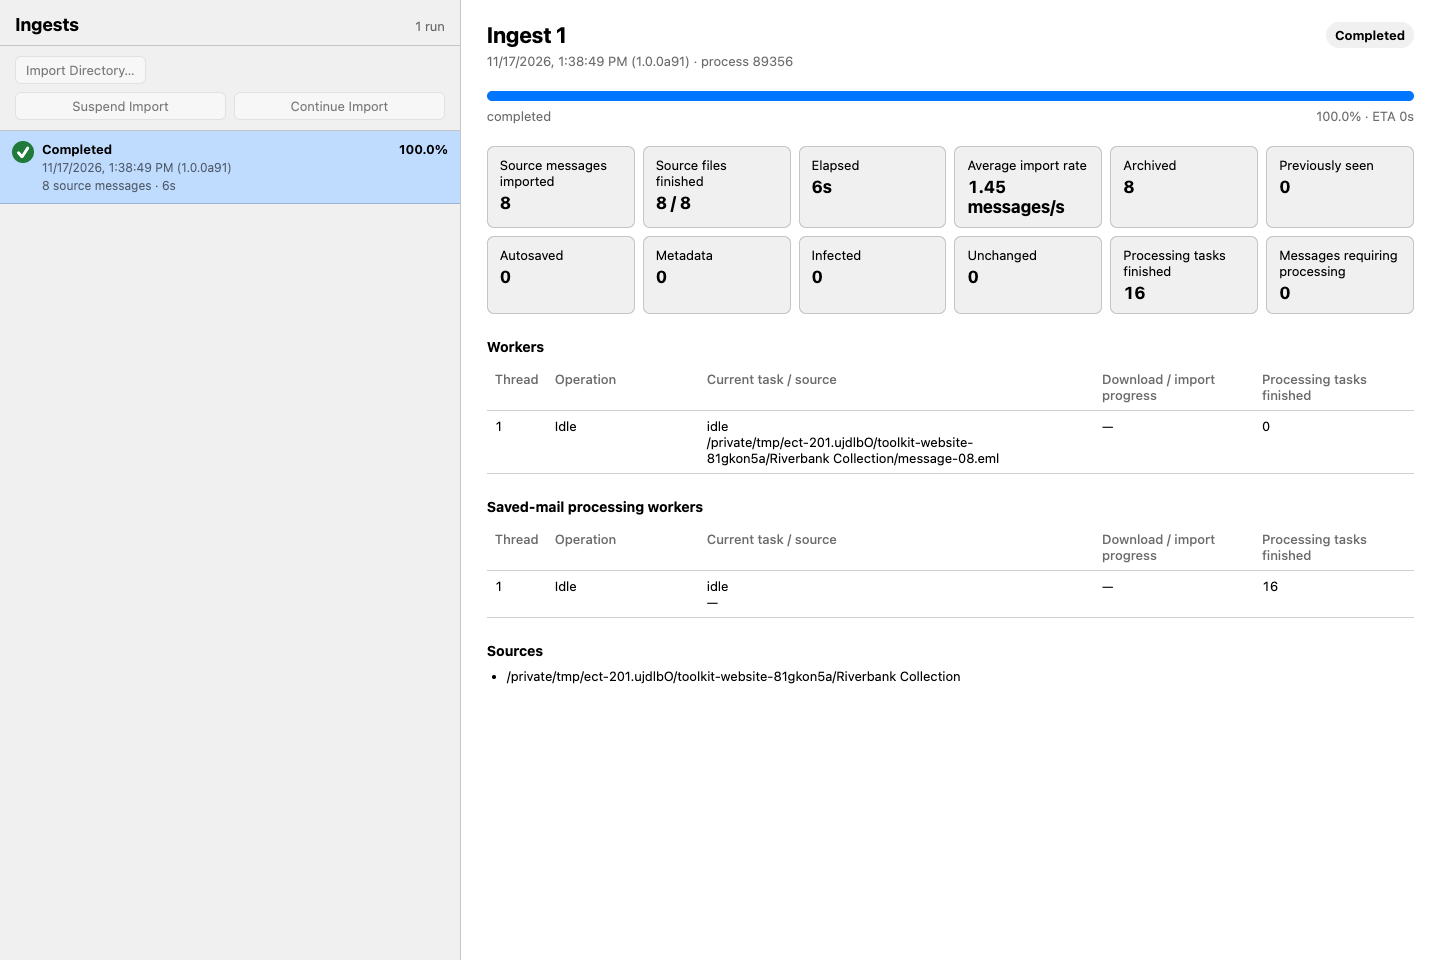
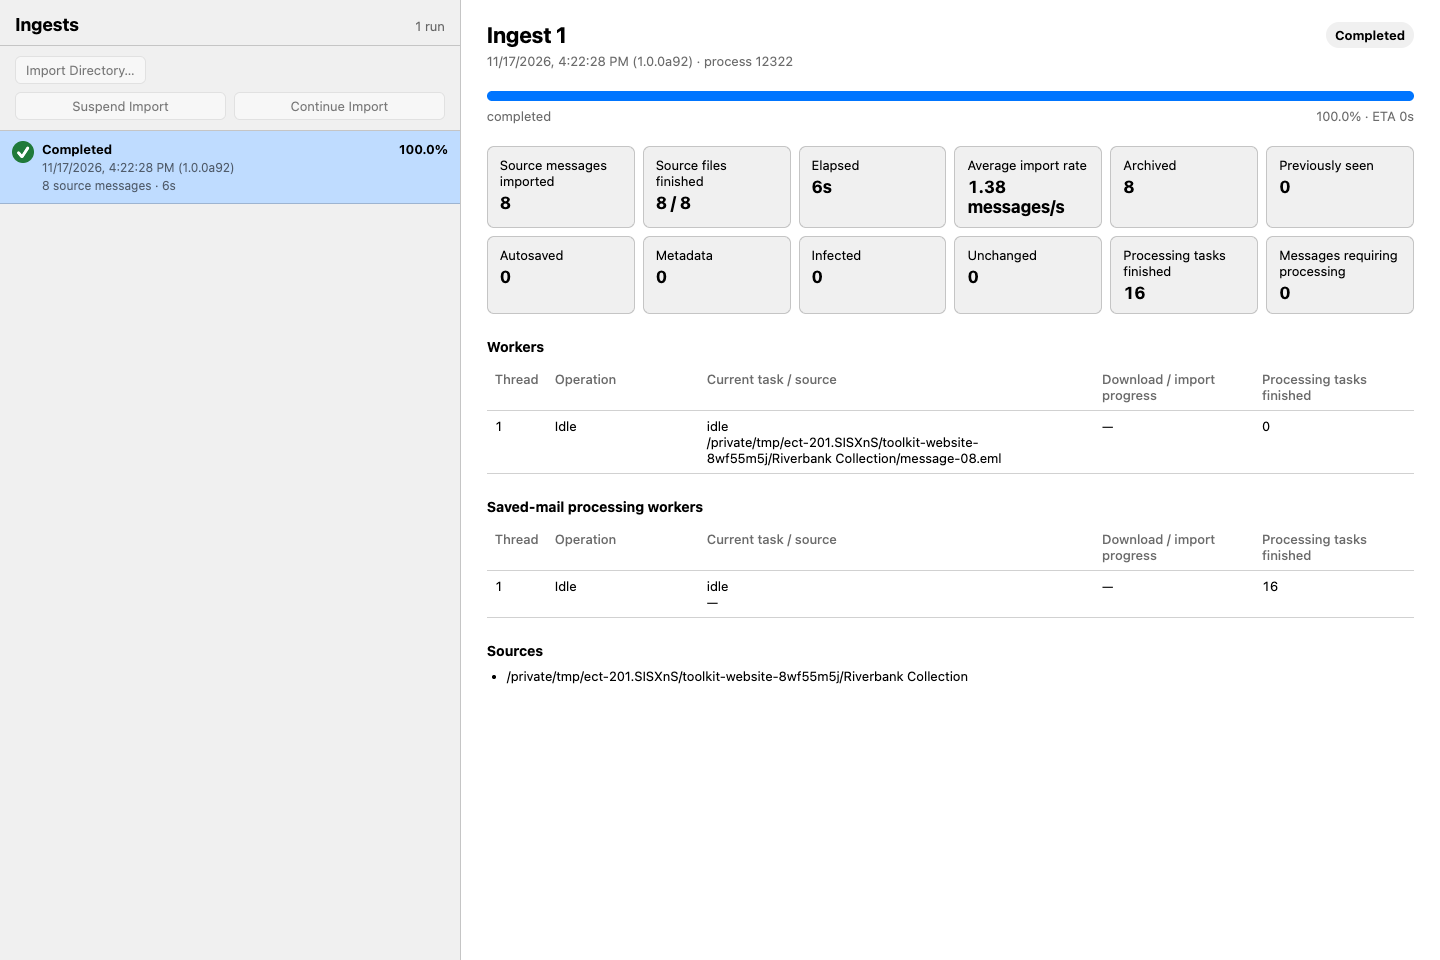
Keep desktop IMAP imports waiting for network connectivity
Retest unavailable DNS and IMAP transports every 150 seconds until
connectivity returns or the user cancels. Preserve the active run and UID
plan across captive portal sign-in. Keep the standalone CLI pause policy.

Exercise DNS loss during discovery and acquisition, timed retry and
cancellation, and the visible waiting-to-completed browser path. Advance
the prerelease version and refresh its locks and Importing screenshot.

diff --git a/tests/test_imap.py b/tests/test_imap.py
@@ -33,6 +33,7 @@ from threading import Barrier, Event
 import pytest
 
 from mailarchiver.file_events import wait_for_path_state
+from mailarchiver.change_signal import ChangeEvent
 from mailarchiver.__main__ import IngestRequest, run_ingest
 from mailarchiver.application import create_empty_archive
 from mailarchiver.archive_config import load_archive_config, save_archive_config
@@ -899,10 +900,11 @@ def test_host_down_handling_requires_a_transport_errno(error: OSError) -> None:
     assert not connection_interrupted(error)
 
 
-def test_only_temporary_dns_failure_retries() -> None:
-    """ACQUISITION: a resolver that is still restoring service is a transport interruption."""
-    assert connection_interrupted(socket.gaierror(socket.EAI_AGAIN, "Temporary failure"))
-    assert not connection_interrupted(socket.gaierror(socket.EAI_NONAME, "Unknown server"))
+@pytest.mark.parametrize("code", [socket.EAI_AGAIN, socket.EAI_NONAME, socket.EAI_FAIL])
+def test_dns_unavailability_retries(code: int) -> None:
+    """ACQUISITION: captive portals can return either temporary failure or an unknown hostname."""
+    assert connection_interrupted(socket.gaierror(code, "Name lookup unavailable"))
+    assert not connection_interrupted(socket.gaierror(socket.EAI_BADFLAGS, "Invalid resolver flags"))
 
 
 def test_imaplib_wrapped_send_timeout_retains_timeout_presentation() -> None:
@@ -1488,7 +1490,7 @@ def test_desktop_transport_signal_recovers_without_replaying_bodies(imap_archive
             transport.network_changed(False)
             imap_inbox.fault = ImapFault(command=b"BODY.PEEK[]", mode="disconnect", once=True)
             retry = next(stream)
-            assert isinstance(retry, ProgressEvent) and "reconnecting in 30s" in retry.phase
+            assert isinstance(retry, ProgressEvent) and "retrying in 150s" in retry.phase
             transport.network_changed(True)
         cursors = [first.cursor, *(item.cursor for item in stream if isinstance(item, MailObject))]
         assert time.monotonic() - started < 10
@@ -1497,6 +1499,87 @@ def test_desktop_transport_signal_recovers_without_replaying_bodies(imap_archive
     assert len(requests) == (3 if power_cycle else 4)
     assert requests.count(requests[0]) == 1
     assert sum(b" EXAMINE " in line for line in imap_inbox.commands) >= 3
+
+
+@pytest.mark.parametrize("imap_server", ["interruptible"], indirect=True)
+@pytest.mark.parametrize("acquiring", [False, True], ids=["discovery", "acquisition"])
+def test_desktop_waits_through_captive_portal_dns_failure(imap_archive: Path, imap_inbox: DisposableImap,
+        monkeypatch: pytest.MonkeyPatch, acquiring: bool) -> None:
+    """ACQUISITION: four unknown-host replies retain a live import and exact delivered UID state."""
+    assert isinstance(imap_inbox, InterruptibleImap) and imap_inbox.account is not None
+    with closing(sqlite3.connect(imap_archive / "archive.sqlite3")) as database, database:
+        initialize_state(database)
+    transport = ImapTransport()
+    plugin = ImapSourcePlugin(PluginContext(imap_transport=transport))
+    source = SourceSpec(locator=imap_locator(imap_archive, imap_inbox.account, 1))
+    discovery = plugin.discover(source)
+    stream = discovery
+    cursors: list[str | None] = []
+    if acquiring:
+        containers = [item for item in discovery if isinstance(item, MailContainer)]
+        stream = plugin.messages(containers[0], None)
+        cursors.append(next(item.cursor for item in stream if isinstance(item, MailObject)))
+        imap_inbox.fault = ImapFault(command=b"BODY.PEEK[]", mode="disconnect", once=True)
+        interrupted = next(stream)
+        assert isinstance(interrupted, ProgressEvent) and "Waiting for IMAP connectivity" in interrupted.phase
+        transport.network_changed(True)
+
+    # Replace only the OS resolver boundary to reproduce the screenshot's DNS
+    # error. All successful sessions use the real fixture's verified TLS server.
+    resolve = socket.getaddrinfo
+    attempts = 0
+
+    def unavailable(*args, **kwargs):
+        nonlocal attempts
+        attempts += 1
+        raise socket.gaierror(socket.EAI_NONAME, "nodename nor servname provided, or not known")
+
+    monkeypatch.setattr(socket, "getaddrinfo", unavailable)
+    with closing(stream):
+        for _ in range(4):
+            waiting = next(stream)
+            assert isinstance(waiting, ProgressEvent)
+            assert "Waiting for IMAP connectivity; retrying in 150s" in waiting.phase
+            assert "sign-in" in waiting.phase
+            transport.network_changed(True)
+        monkeypatch.setattr(socket, "getaddrinfo", resolve)
+        remaining = list(stream)
+    assert attempts == 4
+    if acquiring:
+        cursors.extend(item.cursor for item in remaining if isinstance(item, MailObject))
+        assert len(cursors) == len(set(cursors)) == 3
+        requests = [line.split()[3] for line in imap_inbox.commands if b"BODY.PEEK[]" in line]
+        assert requests.count(requests[0]) == 1
+    else:
+        assert sum(isinstance(item, MailContainer) for item in remaining) == 1
+
+
+@pytest.mark.parametrize("finish", ["deadline", "suspend"])
+def test_desktop_connectivity_wait_retests_or_cancels(monkeypatch: pytest.MonkeyPatch, finish: str) -> None:
+    """ACQUISITION: automatic retests survive failed attempts and cancellation wakes the 150-second wait."""
+    from mailarchiver.imap_source import IMAP_NETWORK_RETEST_SECONDS
+    assert 120 <= IMAP_NETWORK_RETEST_SECONDS <= 180
+    stop = ChangeEvent()
+    plugin = ImapSourcePlugin(PluginContext(cancellation=stop, imap_transport=ImapTransport()))
+    if finish == "deadline":
+        monkeypatch.setattr("mailarchiver.imap_source.IMAP_NETWORK_RETEST_SECONDS", 0.01)
+    waiting = plugin._recover("fixture", 4, ImapPaused("Network unavailable"), None)
+    assert "Waiting for IMAP connectivity" in next(waiting).phase
+
+    def advance() -> bool:
+        try:
+            next(waiting)
+        except StopIteration as completed:
+            return bool(completed.value)
+        raise AssertionError("Connectivity wait emitted another event before completion")
+
+    with closing(waiting), ThreadPoolExecutor(max_workers=1) as pool:
+        # Advancing the iterator waits for the actual retry deadline or Stop.
+        result = pool.submit(advance)
+        if finish == "suspend":
+            stop.set()
+        assert result.result(timeout=2) == (finish == "deadline")
+        assert stop.is_set() == (finish == "suspend")
 
 
 @pytest.mark.parametrize("imap_server", ["interruptible"], indirect=True)
@@ -1646,7 +1729,6 @@ def test_concurrent_saved_processing_does_not_block_imap_downloads(imap_archive:
         imap_inbox: DisposableImap, imap_messages: tuple[bytes, ...], tmp_path: Path, cancel: bool, duplicate: bool) -> None:
     """ACQUISITION/PROCESSING: publish fresh TLS bodies while a saved content invocation is held open."""
     from mailarchiver.__main__ import IngestInterrupted
-    from mailarchiver.change_signal import ChangeEvent
     from mailarchiver.processing.api import ProcessingObject
     from mailarchiver.processing_progress import saved_messages_remaining
     from mailarchiver.processing.store import connect, enqueue

diff --git a/e2e_tests/test_imap_pause.py b/e2e_tests/test_imap_pause.py
@@ -7,20 +7,23 @@
 # These checks establish local behavior, not live Gmail or native-window acceptance.
 """Requirements: expected IMAP interruptions pause with a working Resume action."""
 from pathlib import Path
+from concurrent.futures import ThreadPoolExecutor
 import hashlib
+import socket
 import sqlite3
 
 import pytest
 from playwright.sync_api import Page, expect
 
 from e2e_tests.browser_notifications import notify_status
-from mailarchiver.__main__ import IngestRequest
+from mailarchiver.__main__ import IngestRequest, run_ingest
 from mailarchiver.archive_config import load_archive_config, save_archive_config
 from mailarchiver.file_events import wait_for_path_state
 from mailarchiver.gui_app import GUI_DIRECTORY, INGEST_BRIDGE_METHODS, SEARCH_BRIDGE_METHODS, IngestWindowApi, WindowBridge
 from mailarchiver.gui_processing import unfinished_work
 from mailarchiver.imap_models import ImapAccount
 from mailarchiver.imap_source import imap_locator
+from mailarchiver.imap_transport import ImapTransport
 from mailarchiver.imap_cli import parser, synchronize
 from mailarchiver.imap_credentials import password_for, save_password
 from mailarchiver.imap_state import totals
@@ -33,6 +36,45 @@ from tests.test_gui_processing import open_headless, wait_for_import
 from tests.test_imap import assert_imap_searchable
 from tests.test_imap import imap_archive as imap_archive, imap_inbox as imap_inbox, imap_messages as imap_messages
 from tests.test_imap import imap_server as imap_server, imap_server_identity as imap_server_identity
+
+
+def test_captive_portal_waiting_status_recovers_through_real_import(imap_archive: Path,
+        imap_inbox: DisposableImap, monkeypatch: pytest.MonkeyPatch, page: Page, tmp_path: Path) -> None:
+    """DESKTOP: portal DNS failures display waiting, then fresh TLS resumes the same running import."""
+    assert imap_inbox.account is not None
+    resolve = socket.getaddrinfo
+
+    def unavailable(*args, **kwargs):
+        raise socket.gaierror(socket.EAI_NONAME, "nodename nor servname provided, or not known")
+
+    transport = ImapTransport()
+    request = IngestRequest(archive=imap_archive, roots=[imap_locator(imap_archive, imap_inbox.account, 1)],
+                            workers=1, scan_policy="not-scanned")
+    monkeypatch.setattr(socket, "getaddrinfo", unavailable)
+    with ThreadPoolExecutor(max_workers=1) as pool:
+        completed = pool.submit(run_ingest, request, terminal=False, imap_transport=transport)
+        try:
+            def waiting() -> bool:
+                statuses = read_ingest_history(imap_archive).statuses
+                return bool(statuses and "Waiting for IMAP connectivity" in statuses[0].phase)
+
+            wait_for_path_state([imap_archive / "status"], waiting, timeout=10)
+            bridge(page, IngestWindowApi(imap_archive), ("history", "antivirus", "can_import_directory"))
+            page.goto((GUI_DIRECTORY / "ingests.html").as_uri())
+            expect(page.locator(".state-badge")).to_have_text("running")
+            expect(page.locator(".progress-caption")).to_contain_text("retrying in 150s")
+            expect(page.locator(".progress-caption")).to_contain_text("Network sign-in")
+            expect(page.get_by_role("heading", name="Failure", exact=True)).to_have_count(0)
+            expect(page.locator("#error")).to_be_hidden()
+            page.screenshot(path=str(tmp_path / "captive-portal-waiting.png"))
+        finally:
+            monkeypatch.setattr(socket, "getaddrinfo", resolve)
+            transport.network_changed(True)
+        completed.result(timeout=15)
+    page.evaluate("refreshHistory()")
+    expect(page.locator(".state-badge")).to_have_text("completed")
+    assert len(read_ingest_history(imap_archive).statuses) == 1
+    assert totals(imap_archive).archived == 3 and not verify_archive(imap_archive)
 
 
 def test_password_replacement_form_checks_real_login_before_saving(imap_archive: Path,

diff --git a/src/mailarchiver/imap_source.py b/src/mailarchiver/imap_source.py
@@ -45,7 +45,7 @@ from .sqlite_paths import sqlite_uri
 
 UID_SEARCH_WINDOW = 65536
 IMAP_RECOVERY_ATTEMPTS = 3
-IMAP_ROUTE_WAIT = 30
+IMAP_NETWORK_RETEST_SECONDS = 150
 IMAP_RECOVERY_PHASE = "IMAP connection interrupted;"
 IMAP_SLEEP_PHASE = "Computer slept; reconnecting to IMAP when awake"
 IMAP_RETRY_INITIAL = 1.0
@@ -163,11 +163,14 @@ class ImapSourcePlugin(SourcePlugin):
 
     def _recover(self, work_id: str, attempt: int, error: ImapPaused,
                  changed: Future[None] | None) -> Generator[ProgressEvent, None, bool]:
+        if self.transport is not None:
+            yield ProgressEvent(work_id=work_id, phase=f"Waiting for IMAP connectivity; retrying in "
+                f"{IMAP_NETWORK_RETEST_SECONDS:g}s. Network sign-in may be needed.")
+            return not _backoff_cancelled(self.cancellation, IMAP_NETWORK_RETEST_SECONDS,
+                                          transport=self.transport, changed=changed)
         if attempt > IMAP_RECOVERY_ATTEMPTS:
             raise error
         delay = min(IMAP_RETRY_INITIAL * 2 ** (attempt - 1), IMAP_RETRY_MAXIMUM)
-        if self.transport is not None and self.transport.path_available is False:
-            delay = max(delay, IMAP_ROUTE_WAIT)
         yield ProgressEvent(work_id=work_id,
             phase=f"{IMAP_RECOVERY_PHASE} reconnecting in {delay:g}s ({attempt}/{IMAP_RECOVERY_ATTEMPTS})")
         return not _backoff_cancelled(self.cancellation, delay, transport=self.transport, changed=changed)

diff --git a/src/mailarchiver/imap_protocol.py b/src/mailarchiver/imap_protocol.py
@@ -113,7 +113,8 @@ def connection_interrupted(error: BaseException) -> bool:
     error = connection_cause(error)
     return isinstance(error, (TimeoutError, ConnectionError,
                               ssl.SSLEOFError, ssl.SSLZeroReturnError)) or (
-        isinstance(error, socket.gaierror) and error.errno == socket.EAI_AGAIN) or (
+        isinstance(error, socket.gaierror) and error.errno in {
+            socket.EAI_AGAIN, socket.EAI_NONAME, socket.EAI_FAIL}) or (
         isinstance(error, OSError) and error.errno in {
             errno.ENETDOWN, errno.ENETRESET, errno.ENETUNREACH, errno.EHOSTUNREACH,
             getattr(errno, "EHOSTDOWN", errno.EHOSTUNREACH)}) or (

diff --git a/doc/requirements/ACQUISITION.md b/doc/requirements/ACQUISITION.md
@@ -141,9 +141,13 @@ committed progress. Workers shall close source iterators on their owning threads
 terminal process-group interrupts shall not abort scanner children mid-message.
 The standalone IMAP CLI acknowledges Ctrl-C immediately, before waiting for active
 downloads to stop and their checkpoint to finish.
-IMAP timeouts and lost connections, including after laptop sleep, shall record a
-**paused** run rather than a failure, including host-down socket errors where the
-platform exposes them. Retain committed per-message progress and accepted
+IMAP timeouts and lost connections, including after laptop sleep, retain committed
+per-message progress and accepted settings. macOS imports stay running while
+connectivity is unavailable and retry every 150 seconds, including DNS unknown-host
+replies from captive portals. Show a waiting/network-sign-in message and allow
+Suspend or Quit to interrupt that wait immediately.
+The CLI exhausts its short retry budget into a **paused** run, including host-down
+socket errors where the platform exposes them. Retain committed progress and accepted
 settings, release the connection and writer lease, and offer **Resume**
 in Ingests. Resume reconnects and downloads missing checkpoints without repeating
 committed bodies. Incomplete literals must never become successful checkpoints.
@@ -486,8 +490,8 @@ fixtures exercise destination rejection and exact resume through
 ## Automatic transport recovery
 
 Discovery and acquisition discard interrupted sessions before cancellable
-1, 2 and 4 second reconnect waits. After three unsuccessful recovery attempts,
-retain the existing paused/Resume behavior. Successful message delivery resets
+1, 2 and 4 second reconnect waits in the CLI. After three unsuccessful CLI recovery
+attempts, retain the paused/Resume behavior. Successful message delivery resets
 the acquisition retry budget. Authentication, TLS trust, malformed protocol and
 local storage failures are not retried as transport failures. Every replacement
 session EXAMINEs and checks UIDVALIDITY/capabilities before using old UID plans.
@@ -498,8 +502,9 @@ literals never reach publication. Initial capacity-refusal backoff retains its
 existing policy. CLI progress exposes reconnect deadlines while counts are still.
 On macOS, sleep expires active IMAP sessions and workers defer new connections
 until wake or cancellation. A default route or DNS configuration change can
-advance a pending transport retry. A failed connection allows a bounded grace
-period for a missing default route. These events do not resume a stopped import.
+advance a pending transport retry. macOS connection attempts continue at
+150-second intervals through prolonged outages and captive portal sign-in.
+These events do not resume a stopped import.
 `make test-imap-recovery` exercises transient and persistent faults, epoch change,
 source integrity and owned scratch-process lifecycle.
 

diff --git a/doc/implementation/ACQUISITION.md b/doc/implementation/ACQUISITION.md
@@ -882,8 +882,8 @@ fixtures exercise destination rejection and exact resume through
 ## Automatic transport recovery
 
 Discovery and acquisition discard interrupted sessions before cancellable
-1, 2 and 4 second reconnect waits. After three unsuccessful recovery attempts,
-retain the existing paused/Resume behavior. Successful message delivery resets
+1, 2 and 4 second reconnect waits in the CLI. After three unsuccessful CLI recovery
+attempts, retain the paused/Resume behavior. Successful message delivery resets
 the acquisition retry budget. Authentication, TLS trust, malformed protocol and
 local storage failures are not retried as transport failures. Every replacement
 session EXAMINEs and checks UIDVALIDITY/capabilities before using old UID plans.
@@ -897,9 +897,12 @@ context. Sleep expires a session token checked by the owning worker before a
 new IMAP command, and reconnects wait for wake or cancellation. A command already
 in progress retains its socket timeout and literal validation. Session expiry
 from sleep does not spend the failure retry budget. Wake and route
-notifications can shorten the transport backoff. With no reported default route,
-a failed connection gives the route up to 30 seconds to return before retrying.
-A temporary resolver failure uses the same transport retry path. Replacement
+notifications can shorten the transport backoff. macOS discovery and acquisition
+wait 150 seconds between failed connection attempts without exhausting a retry
+budget. Their progress describes waiting for connectivity and possible network
+sign-in. Cancellation immediately releases the wait. Resolver EAI_AGAIN, EAI_NONAME
+and EAI_FAIL use this path because portal DNS may reject an otherwise valid host.
+Replacement
 sessions follow the same EXAMINE and UIDVALIDITY checks.
 `make test-imap-recovery` exercises transient and persistent faults, epoch change,
 source integrity and owned scratch-process lifecycle.

diff --git a/website/content/importing.md b/website/content/importing.md
@@ -50,10 +50,11 @@ settings, including after reopening the archive. Suspension also frees the
 archive for manual name edits. A message already being downloaded may finish
 before suspension completes.
 
-IMAP imports automatically retry interrupted connections using fresh sessions
-and short waits. Saved progress is retained. If recovery keeps failing, the
-import pauses with a yellow circle and horizontal dash. Reconnect to the network,
-then click **Resume** in Ingests. Messages already saved are not downloaded again.
+macOS IMAP imports wait through connectivity loss and captive portal sign-in,
+retesting the server every 2½ minutes using a fresh session. Ingests shows the
+waiting status while saved progress is retained. Complete the network sign-in
+when needed. **Suspend Import** remains available during the wait. Messages
+already saved are not downloaded again.
 
 Downloads and saved-message processing can run at the same time after unfinished
 ingest recovery. Ingests shows their worker groups separately, so a saved-mail backlog

diff --git a/doc/implementation.md b/doc/implementation.md
@@ -24,7 +24,9 @@ than a second change log. Platform acceptance is stated alongside its evidence.
   Replacement passwords are tested before saving. Account acquisition uses
   a saved per-account limit (default 8, range 1–15) and cancellable capacity backoff while retaining the
   full processing worker pool. Interrupted sessions retry with fresh TLS and
-  epoch checks, retaining delivered UID state; exhausted recovery pauses safely. Protocol failures and private diagnostics
+  epoch checks, retaining delivered UID state. macOS transport recovery waits
+  150 seconds between connection attempts, waking early for route changes or
+  cancellation. CLI recovery exhaustion pauses safely. Protocol failures and private diagnostics
   retain their distinct handling, including malformed greetings and full CLI login
   diagnostics. IMAP checks the received byte count against the literal declaration
   and logs RFC822.SIZE discrepancies without interrupting acquisition.

diff --git a/doc/requirements.md b/doc/requirements.md
@@ -24,7 +24,9 @@ does not establish that every platform or release gate has passed.
   authentication error offers Update IMAP Credentials. Account acquisition uses
   a saved per-account limit (default 8, range 1–15) and cancellable capacity backoff while retaining the
   full processing worker pool. Interrupted sessions retry with fresh TLS and
-  epoch checks, retaining delivered UID state; exhausted recovery pauses safely. Protocol failures and private diagnostics
+  epoch checks, retaining delivered UID state. macOS connectivity failures wait
+  for network sign-in and retest every 150 seconds until recovery or cancellation.
+  CLI recovery exhaustion pauses safely. Protocol failures and private diagnostics
   retain their distinct handling, including malformed greetings and full CLI login
   diagnostics. IMAP verifies the declared body literal length and treats
   RFC822.SIZE disagreements as warnings.

diff --git a/doc/RELEASE_NOTES.md b/doc/RELEASE_NOTES.md
@@ -6,6 +6,13 @@ Entries describe their recorded revisions. For current behavior use the
 [user manual](USER_MANUAL.md) and [CLI reference](CLI_REFERENCE.md). Retired
 Rust delivery plans and historical package checks are not current acceptance.
 
+## 1.0.0a92 — wait for IMAP connectivity and captive portal sign-in
+
+- Keep active macOS imports waiting through DNS failures and blocked connections.
+  Retest every 150 seconds and resume the existing UID plan when connectivity returns.
+- Show a network sign-in hint. Wake, network changes, Suspend and Quit can interrupt
+  the reconnect wait.
+
 ## 1.0.0a91 — recover after macOS sleep and network changes
 
 - Refresh Ingests after wake or a network configuration change. Clear recovered

diff --git a/doc/requirements/DESKTOP.md b/doc/requirements/DESKTOP.md
@@ -896,6 +896,8 @@ the import as failed, or enable password editing while login validation is pendi
 On macOS, wake and network configuration changes refresh Ingests without a focus
 change. A successful status refresh clears its own earlier error and preserves
 command errors.
+On macOS, an IMAP connection blocked by network availability or captive portal sign-in
+shows a waiting status while it retests every 150 seconds. Suspend remains available.
 Collection-only completion, including a drag export for an unselected row, must
 notify state observers even when it changes no visible DOM.
 Large search batches must append without depending on JavaScript's function
